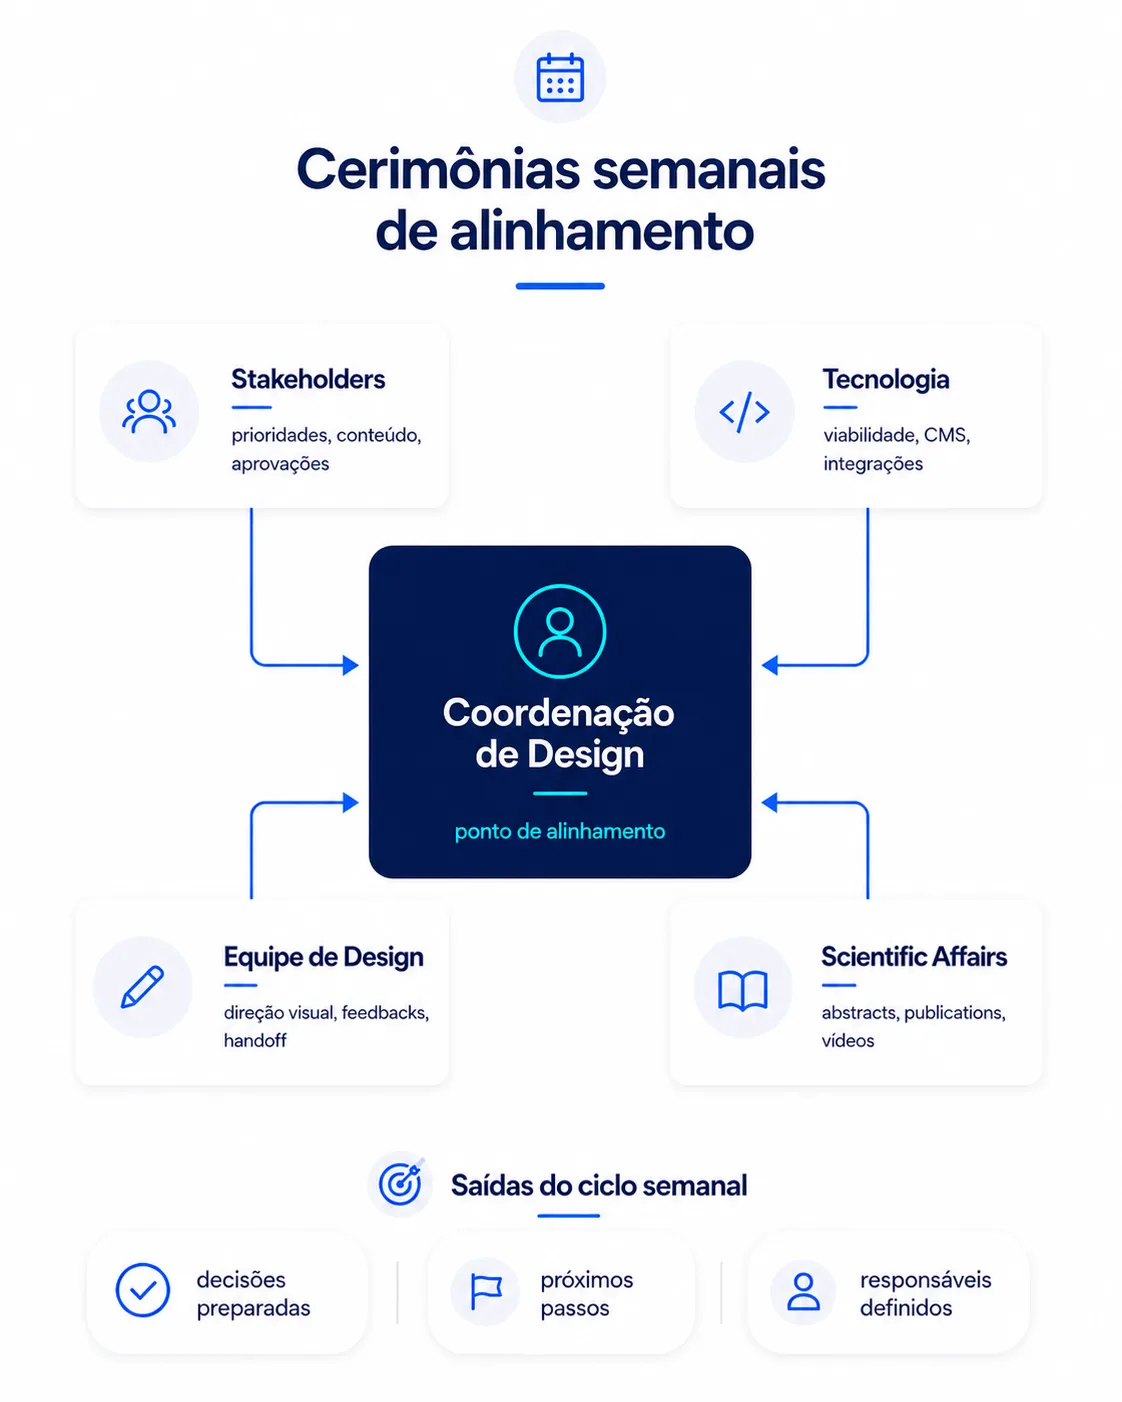
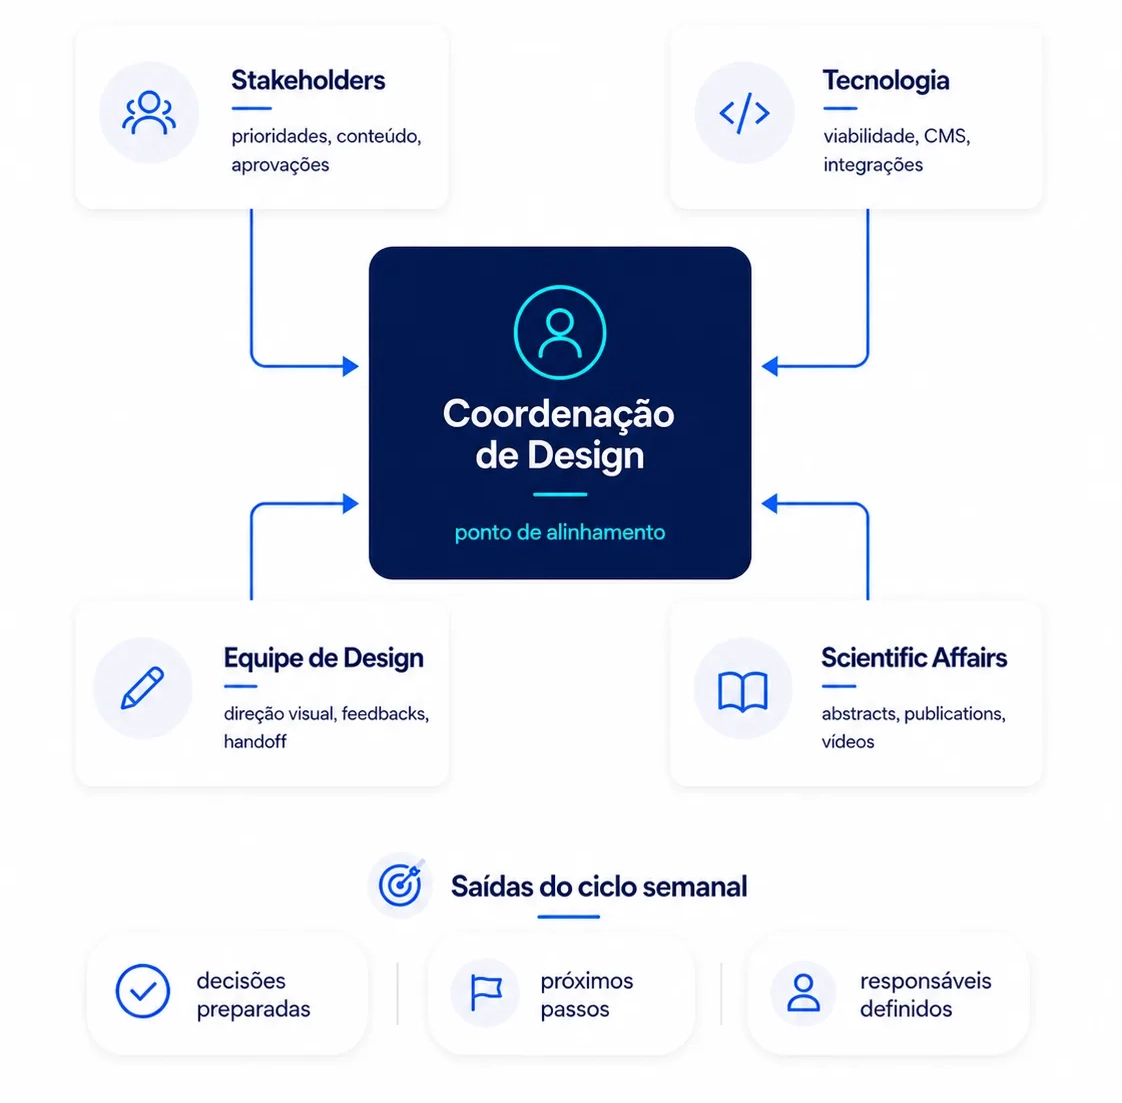
fix: align case problem sections and governance layout

diff --git a/src/pages/cases/ThreePHHrcrsPage.module.css b/src/pages/cases/ThreePHHrcrsPage.module.css
@@ -418,17 +418,19 @@
 }
 
 .governanceImg {
-  width: 100%;
-  height: 600px;
-  object-fit: cover;
-  border-radius: var(--radius-card);
   display: block;
+  width: 100%;
+  height: auto;
+  object-fit: contain;
+  border-radius: var(--radius-card);
 }
 
 .governanceText {
   display: flex;
   flex-direction: column;
-  padding-top: 40px;
+  justify-content: center;
+  align-self: stretch;
+  padding-top: 0;
 }
 
 .governanceText .sectionHeading {
@@ -1823,5 +1825,163 @@
   .metricBox:hover {
     transform: translateY(-2px);
     background-color: #e5e5e5;
+  }
+}
+
+/* ─── O problema — padrão canônico do Storeroom ─────────────────────── */
+.problemaSection .problemaLayout {
+  overflow: hidden;
+  border-radius: 16px;
+}
+
+@media (min-width: 1025px) {
+  .problemaSection {
+    padding-top: 40px;
+    padding-bottom: 40px;
+  }
+
+  .problemaSection .problemaLayout {
+    display: grid;
+    grid-template-columns: 64px minmax(0, 1fr);
+    gap: 0;
+    min-height: 310px;
+    align-items: stretch;
+  }
+
+  .problemaSection .sectionHeading {
+    display: flex;
+    align-items: center;
+    justify-content: center;
+    width: 64px;
+    height: 100%;
+    margin: 0;
+    padding: 24px 0;
+    box-sizing: border-box;
+    background: var(--color-black);
+    color: var(--color-white);
+    font-size: 24px;
+    font-weight: 500;
+    line-height: 1;
+    letter-spacing: -0.48px;
+    writing-mode: vertical-rl;
+    transform: rotate(180deg);
+    white-space: nowrap;
+  }
+
+  .problemaSection .problemaText {
+    justify-content: center;
+    width: 100%;
+    max-width: none;
+    gap: 16px;
+    padding: 48px 56px;
+    box-sizing: border-box;
+    background: var(--color-white);
+  }
+
+  .problemaSection .problemaText p {
+    width: 100%;
+    max-width: none;
+    margin: 0;
+    font-size: 20px;
+    line-height: 1.45;
+  }
+}
+
+@media (min-width: 769px) and (max-width: 1024px) {
+  .problemaSection {
+    padding: 56px 0;
+  }
+
+  .problemaSection .problemaLayout {
+    display: flex;
+    flex-direction: column;
+    align-items: stretch;
+    min-height: auto;
+    gap: 32px;
+  }
+
+  .problemaSection .sectionHeading {
+    display: block;
+    width: 100%;
+    height: auto;
+    margin: 0;
+    padding: 0;
+    background: transparent;
+    color: var(--color-black);
+    font-size: 56px;
+    line-height: 1.04;
+    letter-spacing: -1.68px;
+    writing-mode: horizontal-tb;
+    transform: none;
+    white-space: normal;
+  }
+
+  .problemaSection .problemaText {
+    width: 100%;
+    max-width: none;
+    gap: 20px;
+    padding: 0;
+  }
+
+  .problemaSection .problemaText p {
+    margin: 0;
+    font-size: 18px;
+    line-height: 1.5;
+  }
+}
+
+@media (max-width: 768px) {
+  .problemaSection {
+    padding: 32px 0 48px;
+  }
+
+  .problemaSection .problemaLayout {
+    display: flex;
+    flex-direction: column;
+    min-height: auto;
+    gap: 16px;
+    border-radius: 8px;
+  }
+
+  .problemaSection .sectionHeading {
+    display: block;
+    width: auto;
+    height: auto;
+    margin: 0;
+    padding: 0;
+    background: transparent;
+    color: var(--color-black);
+    font-size: 32px;
+    line-height: 1.1;
+    letter-spacing: -0.32px;
+    writing-mode: horizontal-tb;
+    transform: none;
+    white-space: normal;
+  }
+
+  .problemaSection .problemaText {
+    width: 100%;
+    gap: 24px;
+    padding: 0;
+  }
+
+  .problemaSection .problemaText p {
+    margin: 0;
+    font-size: 18px;
+    line-height: 1.5;
+  }
+}
+/* ─── Fim — O problema ───────────────────────────────────────────────── */
+
+/* Correção — neutraliza o grid antigo de O problema */
+@media (min-width: 1025px) {
+  .problemaSection .problemaLayout {
+    grid-template-areas: none;
+    grid-template-rows: auto;
+  }
+
+  .problemaSection .sectionHeading,
+  .problemaSection .problemaText {
+    grid-area: auto;
   }
 }

diff --git a/src/pages/cases/GerdauSmartlogPage.module.css b/src/pages/cases/GerdauSmartlogPage.module.css
@@ -1266,3 +1266,161 @@
     line-height: 1.5;
   }
 }
+
+/* ─── O problema — padrão canônico do Storeroom ─────────────────────── */
+.problema .problemaLayout {
+  overflow: hidden;
+  border-radius: 16px;
+}
+
+@media (min-width: 1025px) {
+  .problema {
+    padding-top: 40px;
+    padding-bottom: 40px;
+  }
+
+  .problema .problemaLayout {
+    display: grid;
+    grid-template-columns: 64px minmax(0, 1fr);
+    gap: 0;
+    min-height: 310px;
+    align-items: stretch;
+  }
+
+  .problema .sectionHeading {
+    display: flex;
+    align-items: center;
+    justify-content: center;
+    width: 64px;
+    height: 100%;
+    margin: 0;
+    padding: 24px 0;
+    box-sizing: border-box;
+    background: var(--color-black);
+    color: var(--color-white);
+    font-size: 24px;
+    font-weight: 500;
+    line-height: 1;
+    letter-spacing: -0.48px;
+    writing-mode: vertical-rl;
+    transform: rotate(180deg);
+    white-space: nowrap;
+  }
+
+  .problema .problemaText {
+    justify-content: center;
+    width: 100%;
+    max-width: none;
+    gap: 16px;
+    padding: 48px 56px;
+    box-sizing: border-box;
+    background: var(--color-white);
+  }
+
+  .problema .problemaText p {
+    width: 100%;
+    max-width: none;
+    margin: 0;
+    font-size: 20px;
+    line-height: 1.45;
+  }
+}
+
+@media (min-width: 769px) and (max-width: 1024px) {
+  .problema {
+    padding: 56px 0;
+  }
+
+  .problema .problemaLayout {
+    display: flex;
+    flex-direction: column;
+    align-items: stretch;
+    min-height: auto;
+    gap: 32px;
+  }
+
+  .problema .sectionHeading {
+    display: block;
+    width: 100%;
+    height: auto;
+    margin: 0;
+    padding: 0;
+    background: transparent;
+    color: var(--color-black);
+    font-size: 56px;
+    line-height: 1.04;
+    letter-spacing: -1.68px;
+    writing-mode: horizontal-tb;
+    transform: none;
+    white-space: normal;
+  }
+
+  .problema .problemaText {
+    width: 100%;
+    max-width: none;
+    gap: 20px;
+    padding: 0;
+  }
+
+  .problema .problemaText p {
+    margin: 0;
+    font-size: 18px;
+    line-height: 1.5;
+  }
+}
+
+@media (max-width: 768px) {
+  .problema {
+    padding: 32px 0 48px;
+  }
+
+  .problema .problemaLayout {
+    display: flex;
+    flex-direction: column;
+    min-height: auto;
+    gap: 16px;
+    border-radius: 8px;
+  }
+
+  .problema .sectionHeading {
+    display: block;
+    width: auto;
+    height: auto;
+    margin: 0;
+    padding: 0;
+    background: transparent;
+    color: var(--color-black);
+    font-size: 32px;
+    line-height: 1.1;
+    letter-spacing: -0.32px;
+    writing-mode: horizontal-tb;
+    transform: none;
+    white-space: normal;
+  }
+
+  .problema .problemaText {
+    width: 100%;
+    gap: 24px;
+    padding: 0;
+  }
+
+  .problema .problemaText p {
+    margin: 0;
+    font-size: 18px;
+    line-height: 1.5;
+  }
+}
+/* ─── Fim — O problema ───────────────────────────────────────────────── */
+
+/* Correção — neutraliza o grid antigo de O problema */
+@media (min-width: 1025px) {
+  .problema .problemaLayout {
+    grid-template-areas: none;
+    grid-template-rows: auto;
+  }
+
+  .problema .sectionHeading,
+  .problema .problemaText {
+    grid-area: auto;
+  }
+}

diff --git a/src/pages/cases/ThreePHHrcrsPage.jsx b/src/pages/cases/ThreePHHrcrsPage.jsx
@@ -106,13 +106,11 @@ export default function ThreePHHrcrsPage() {
       <RevealSection as="section" aria-labelledby="problema-heading" className={styles.problemaSection}>
         <div className={styles.container}>
           <div className={styles.problemaLayout}>
-            <div className={styles.problemaLabelCol}>
-              <p className={styles.problemaLabel}>{c.problem.label}</p>
-              <h2 id="problema-heading" className={styles.problemaHeading}>
-                {c.problem.title}
-              </h2>
-            </div>
+            <h2 id="problema-heading" className={styles.sectionHeading}>
+              {c.problem.label}
+            </h2>
             <div className={styles.problemaText}>
+              <p>{c.problem.title}</p>
               {c.problem.paragraphs.map((paragraph, index) => (
                 <p key={index}>{paragraph}</p>
               ))}

diff --git a/src/pages/cases/GerdauSmartlogPage.jsx b/src/pages/cases/GerdauSmartlogPage.jsx
@@ -72,13 +72,11 @@ export default function GerdauSmartlogPage() {
       <RevealSection as="section" aria-labelledby="problema-title" className={styles.problema}>
         <div className={styles.container}>
           <div className={styles.problemaLayout}>
-            <div className={styles.problemaLeft}>
-              <p className={styles.problemaLabelText}>{c.problem.label}</p>
-              <h2 id="problema-title" className={styles.sectionHeading}>
-                {c.problem.title}
-              </h2>
-            </div>
+            <h2 id="problema-title" className={styles.sectionHeading}>
+              {c.problem.label}
+            </h2>
             <div className={styles.problemaText}>
+              <p>{c.problem.title}</p>
               {c.problem.paragraphs.map((paragraph, index) => (
                 <p key={index}>{paragraph}</p>
               ))}
